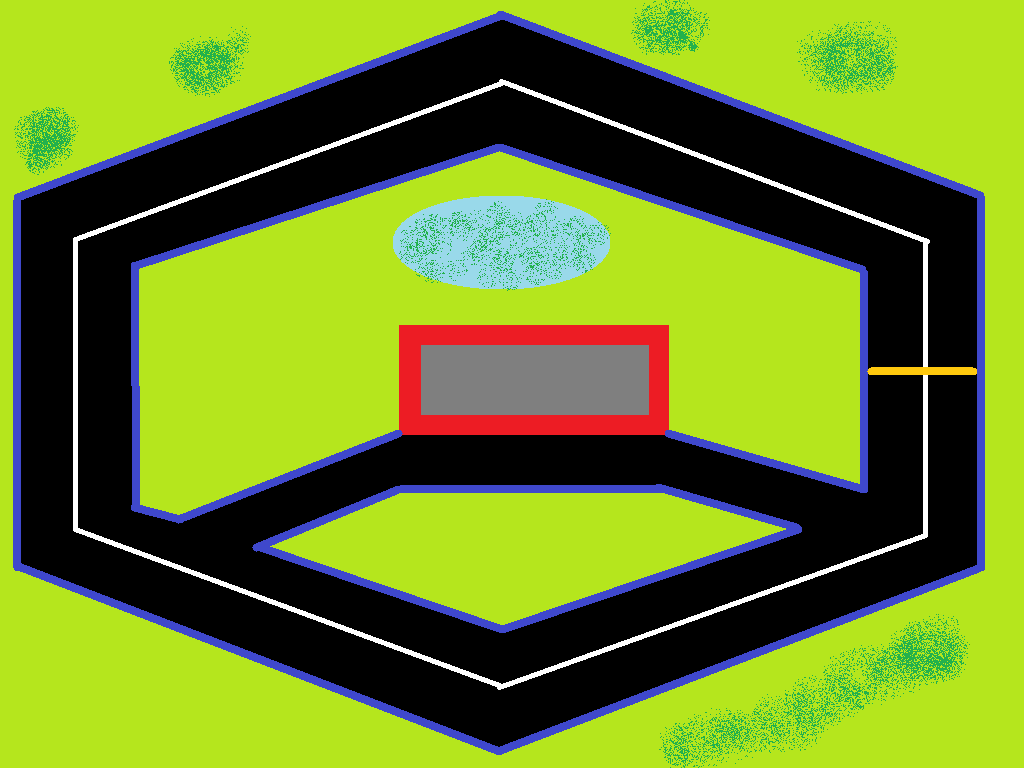
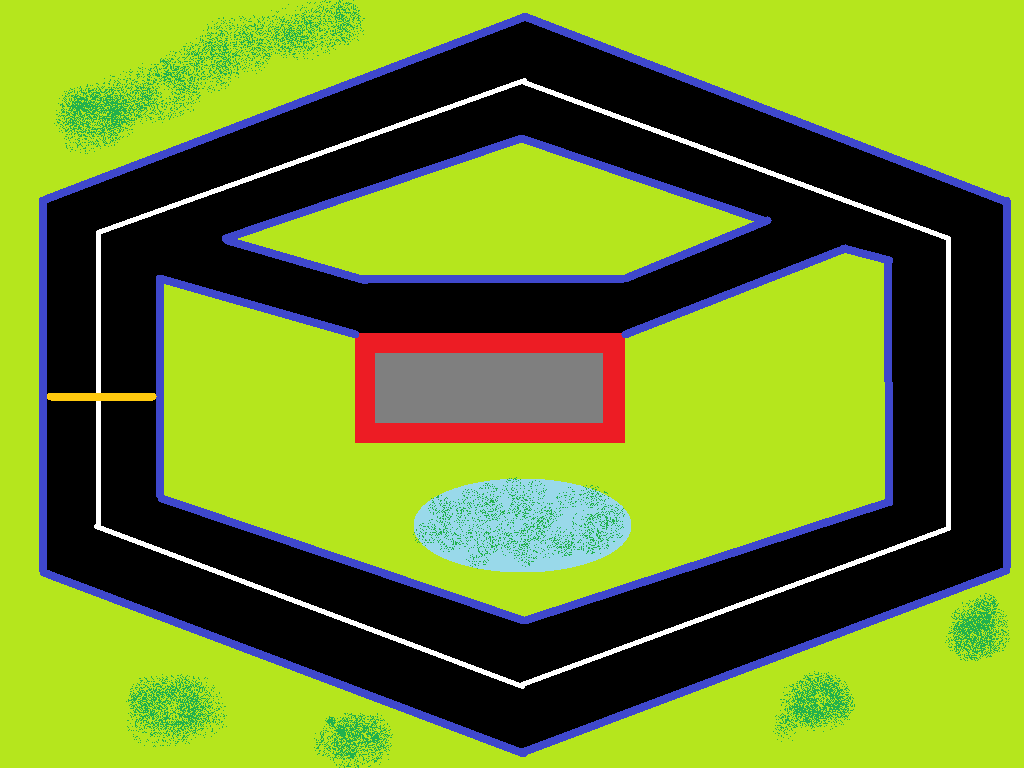
racegame update2
map omgekeerd, is nu weer goed!

diff --git a/Racegame/Racegame/MainForm.cs b/Racegame/Racegame/MainForm.cs
@@ -118,7 +118,7 @@ namespace WindowsFormsApplication1
             timer.GetETime(); //reset timer
 
             vehicle.Setup(new Vector(7, 13) / 2.0f, 5, Color.Red);
-            vehicle.SetLocation(new Vector(-210, -15), 0);
+            vehicle.SetLocation(new Vector(210, -7), 0);
         }
 
         //main rendering function
@@ -501,7 +501,7 @@ namespace WindowsFormsApplication1
 
         public void SetSteering(float steering)
         {
-            const float steeringLock = 0.6f;
+            const float steeringLock = 0.4f;
 
             //apply steering angle to front wheels
             wheels[0].SetSteeringAngle(-steering * steeringLock);
